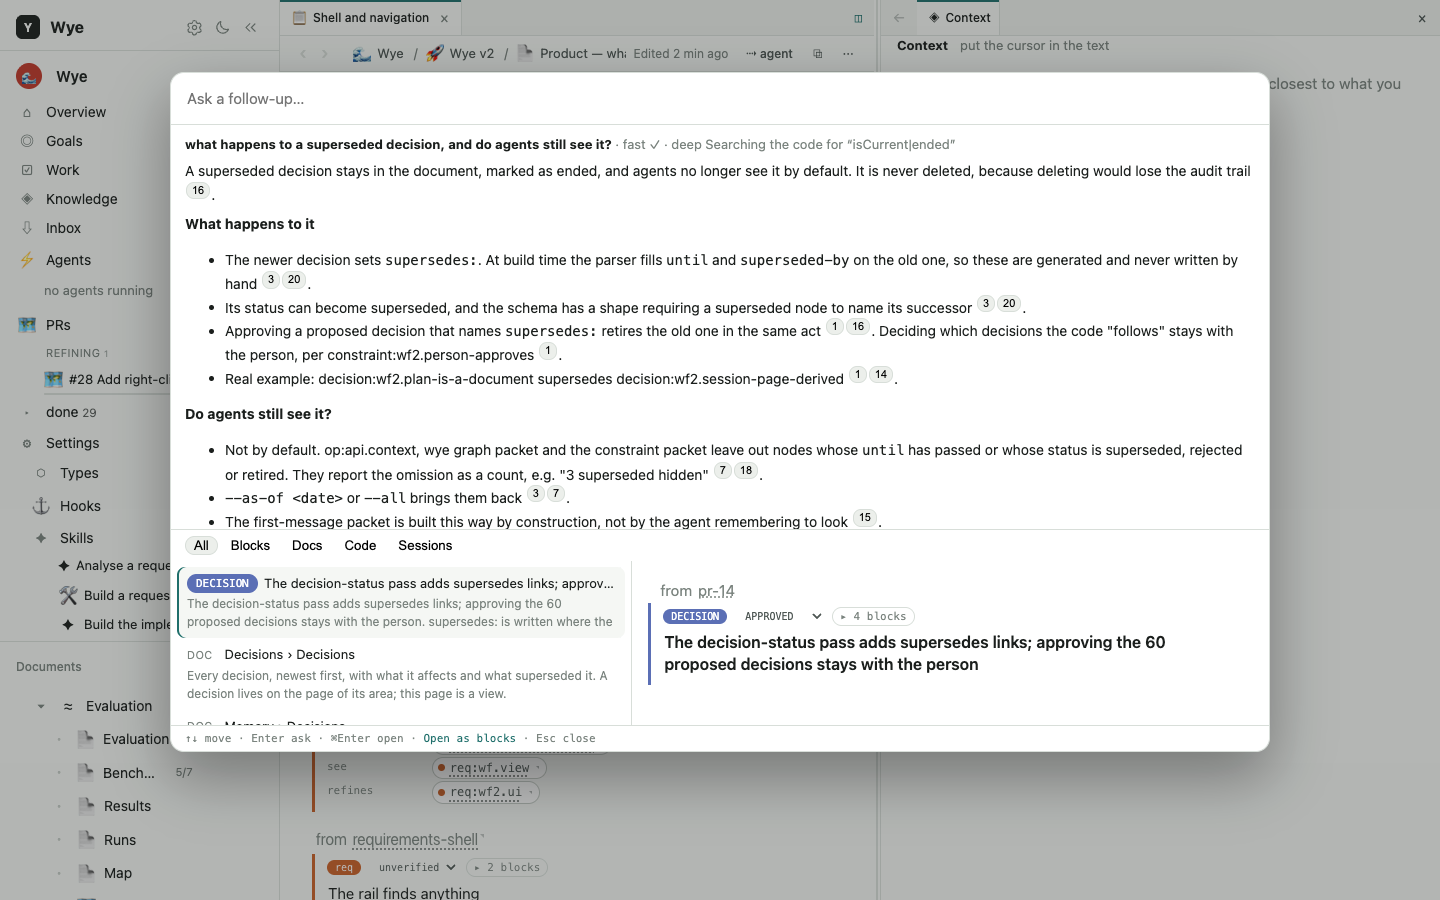
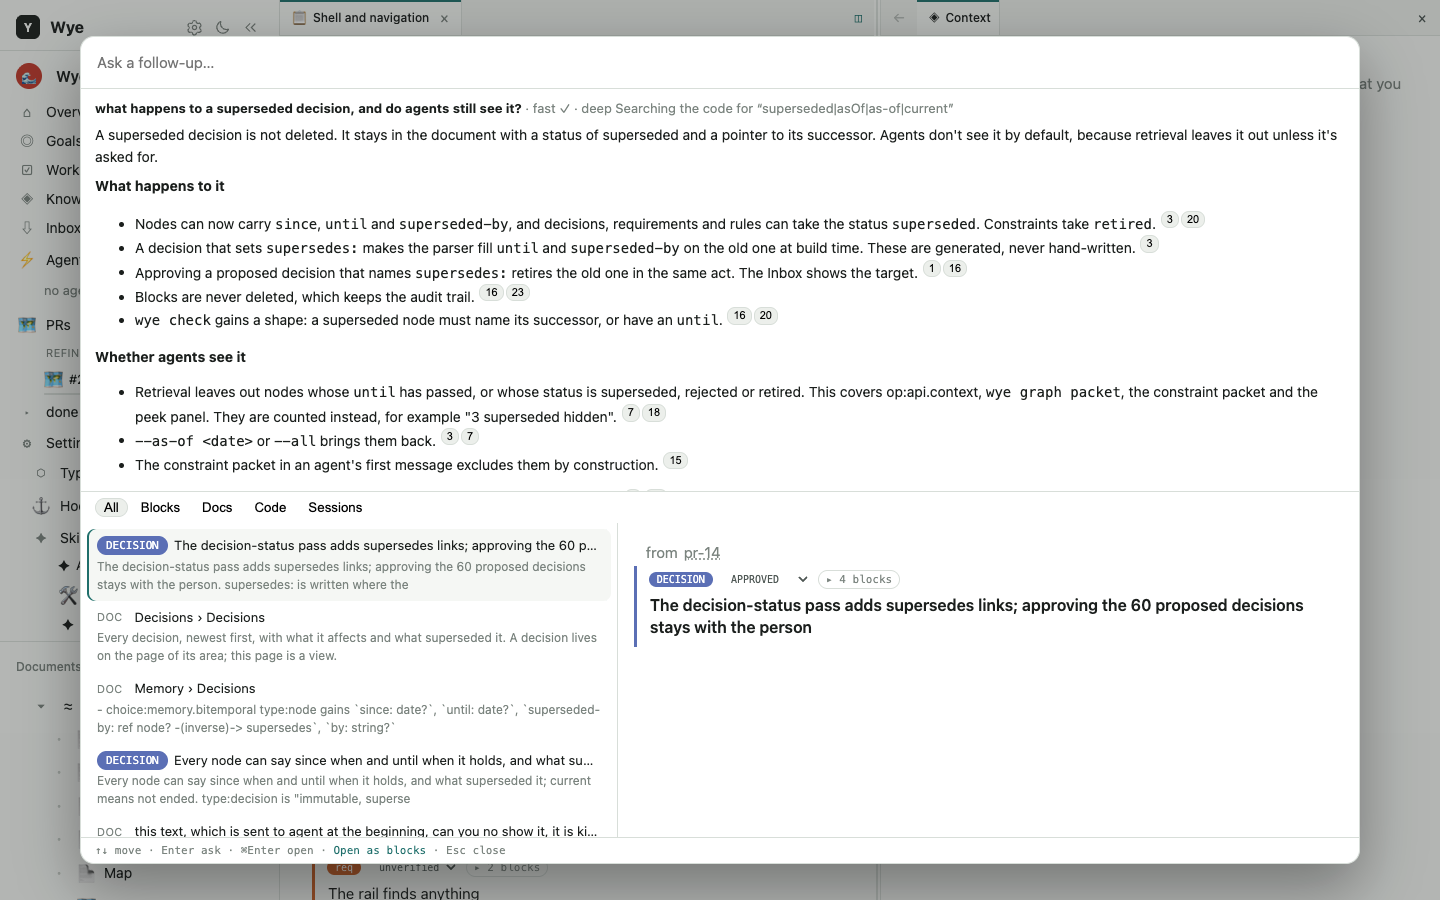
search panel: an answer no longer squeezes the results — the panel fills the window (92vh, up to 1100 px tall and 1280 wide), the answer takes at most 55 % of it and the results keep at least 38 %; "Sources found" shows the first 8 chips and the rest behind "+N more". README's Ask screenshot retaken

diff --git a/packages/web/src/app/globals.css b/packages/web/src/app/globals.css
@@ -912,10 +912,11 @@ body.resizing-y { cursor: row-resize; user-select: none; } body.resizing-y ifram
 .taskwork-def { display: flex; align-items: center; gap: 8px; flex-wrap: wrap; padding: 6px 12px; margin: 6px 0 0; border: 1px solid var(--line); border-radius: 10px; background: var(--surface); font-size: 12px; } .taskwork-def small { font: 600 10px var(--font-m); text-transform: uppercase; letter-spacing: .05em; color: var(--muted); } .taskwork-def .tags { flex-basis: 100%; }
 
 /* the search panel (req:wf2.ui.search): ⌘F — hits left, the highlighted hit's card right */
-.search-veil { position: fixed; inset: 0; background: color-mix(in srgb, var(--ink) 30%, transparent); z-index: 60; display: flex; align-items: flex-start; justify-content: center; padding-top: 8vh; }
-.search-panel { width: min(1100px, 94vw); height: min(680px, 84vh); background: var(--surface); border: 1px solid var(--line); border-radius: 14px; box-shadow: 0 24px 60px rgba(0,0,0,.35); display: flex; flex-direction: column; overflow: hidden; }
+.search-veil { position: fixed; inset: 0; background: color-mix(in srgb, var(--ink) 30%, transparent); z-index: 60; display: flex; align-items: flex-start; justify-content: center; padding-top: 4vh; }
+.search-panel { width: min(1280px, 96vw); height: min(1100px, 92vh); background: var(--surface); border: 1px solid var(--line); border-radius: 14px; box-shadow: 0 24px 60px rgba(0,0,0,.35); display: flex; flex-direction: column; overflow: hidden; }
 .search-in { font: 16px var(--font); padding: 14px 16px; border: 0; border-bottom: 1px solid var(--line); background: transparent; color: var(--ink); outline: none; }
-.search-body { display: grid; grid-template-columns: minmax(280px, 42%) 1fr; min-height: 0; flex: 1; }
+/* an answer takes at most 55 % of the panel, so the results below always keep a working share */
+.search-body { display: grid; grid-template-columns: minmax(280px, 42%) 1fr; min-height: 38%; flex: 1 1 0; }
 .search-hits { list-style: none; margin: 0; padding: 6px; overflow-y: auto; border-right: 1px solid var(--line); }
 .search-hits li { padding: 7px 10px; border-radius: 8px; cursor: pointer; } .search-hits li.on { background: var(--ground); box-shadow: inset 2px 0 0 var(--accent); }
 .search-hit-head { display: flex; align-items: center; gap: 6px; } .search-hit-title { flex: 1; min-width: 0; font-size: 13px; overflow: hidden; text-overflow: ellipsis; white-space: nowrap; }
@@ -931,7 +932,7 @@ body.resizing-y { cursor: row-resize; user-select: none; } body.resizing-y ifram
 .ask-go-key { color: var(--muted); font-size: 12px; white-space: nowrap; }
 .ask-go.is-q .ask-go-key { color: var(--accent); font-weight: 500; }
 .ask-go kbd { font: 11px var(--font-m); padding: 1px 6px; border: 1px solid var(--line-2); border-bottom-width: 2px; border-radius: 5px; background: var(--surface); color: var(--ink); }
-.ask-box { padding: 10px 14px; border-bottom: 1px solid var(--line); max-height: 45vh; overflow: auto; }
+.ask-box { padding: 10px 14px; border-bottom: 1px solid var(--line); flex: 0 1 auto; max-height: 55%; overflow: auto; }
 .ask-head { font-size: 13px; margin-bottom: 6px; }
 .ask-answer { font-size: 14px; line-height: 1.55; }
 .ask-answer p { margin: 0 0 8px; }
@@ -940,6 +941,7 @@ body.resizing-y { cursor: row-resize; user-select: none; } body.resizing-y ifram
 .ask-found { display: flex; flex-wrap: wrap; gap: 6px; align-items: center; margin: 8px 0; font-size: 12px; }
 .ask-chip { border: 1px solid var(--line); border-radius: 12px; padding: 2px 8px; background: none; cursor: pointer; font-size: 12px; animation: ask-in .2s ease-out; }
 .ask-chip:hover { border-color: var(--accent); }
+.ask-chips-more { border: 0; background: none; padding: 2px 4px; cursor: pointer; color: var(--accent); font-size: 12px; }
 @keyframes ask-in { from { opacity: 0; transform: translateY(2px); } to { opacity: 1; transform: none; } }
 .ask-more { background: none; border: none; padding: 4px 0; cursor: pointer; color: var(--accent); }
 .ask-deep { border-top: 1px dashed var(--line); margin-top: 8px; padding-top: 8px; }

diff --git a/packages/web/src/components/search/SourceChips.tsx b/packages/web/src/components/search/SourceChips.tsx
@@ -1,17 +1,23 @@
 'use client';
+import { useState } from 'react';
 import type { Citation } from '@/lib/ask/types';
 
 const LABEL: Record<Citation['source'], string> = { node: 'block', doc: 'doc', code: 'code', session: 'session' };
-// The sources the deep lane has opened so far, in the order it found them.
+const SHOWN = 8;
+// The sources the deep lane has opened so far, in the order it found them — the first few, the rest behind "+N more"
+// so a long search does not push the results out of the panel.
 export function SourceChips({ items, onPick, onHover }: { items: Citation[]; onPick: (c: Citation) => void; onHover: (c: Citation) => void }) {
+  const [all, setAll] = useState(false);
   if (!items.length) return null;
+  const shown = all ? items : items.slice(0, SHOWN);
   return (
     <div className="ask-found">
       <span className="muted">Sources found</span>
-      {items.map(c => (
+      {shown.map(c => (
         <button key={c.n} type="button" className={`ask-chip ask-chip-${c.source}`} title={c.snippet || c.ref} onMouseEnter={() => onHover(c)} onClick={() => onPick(c)}>
           <b>{c.n}</b> <span className="muted">{LABEL[c.source]}</span> {c.title.length > 40 ? c.title.slice(0, 40) + '…' : c.title}
         </button>))}
+      {items.length > SHOWN && <button type="button" className="ask-chips-more" onClick={() => setAll(a => !a)}>{all ? 'fewer' : `+${items.length - SHOWN} more`}</button>}
     </div>
   );
 }
